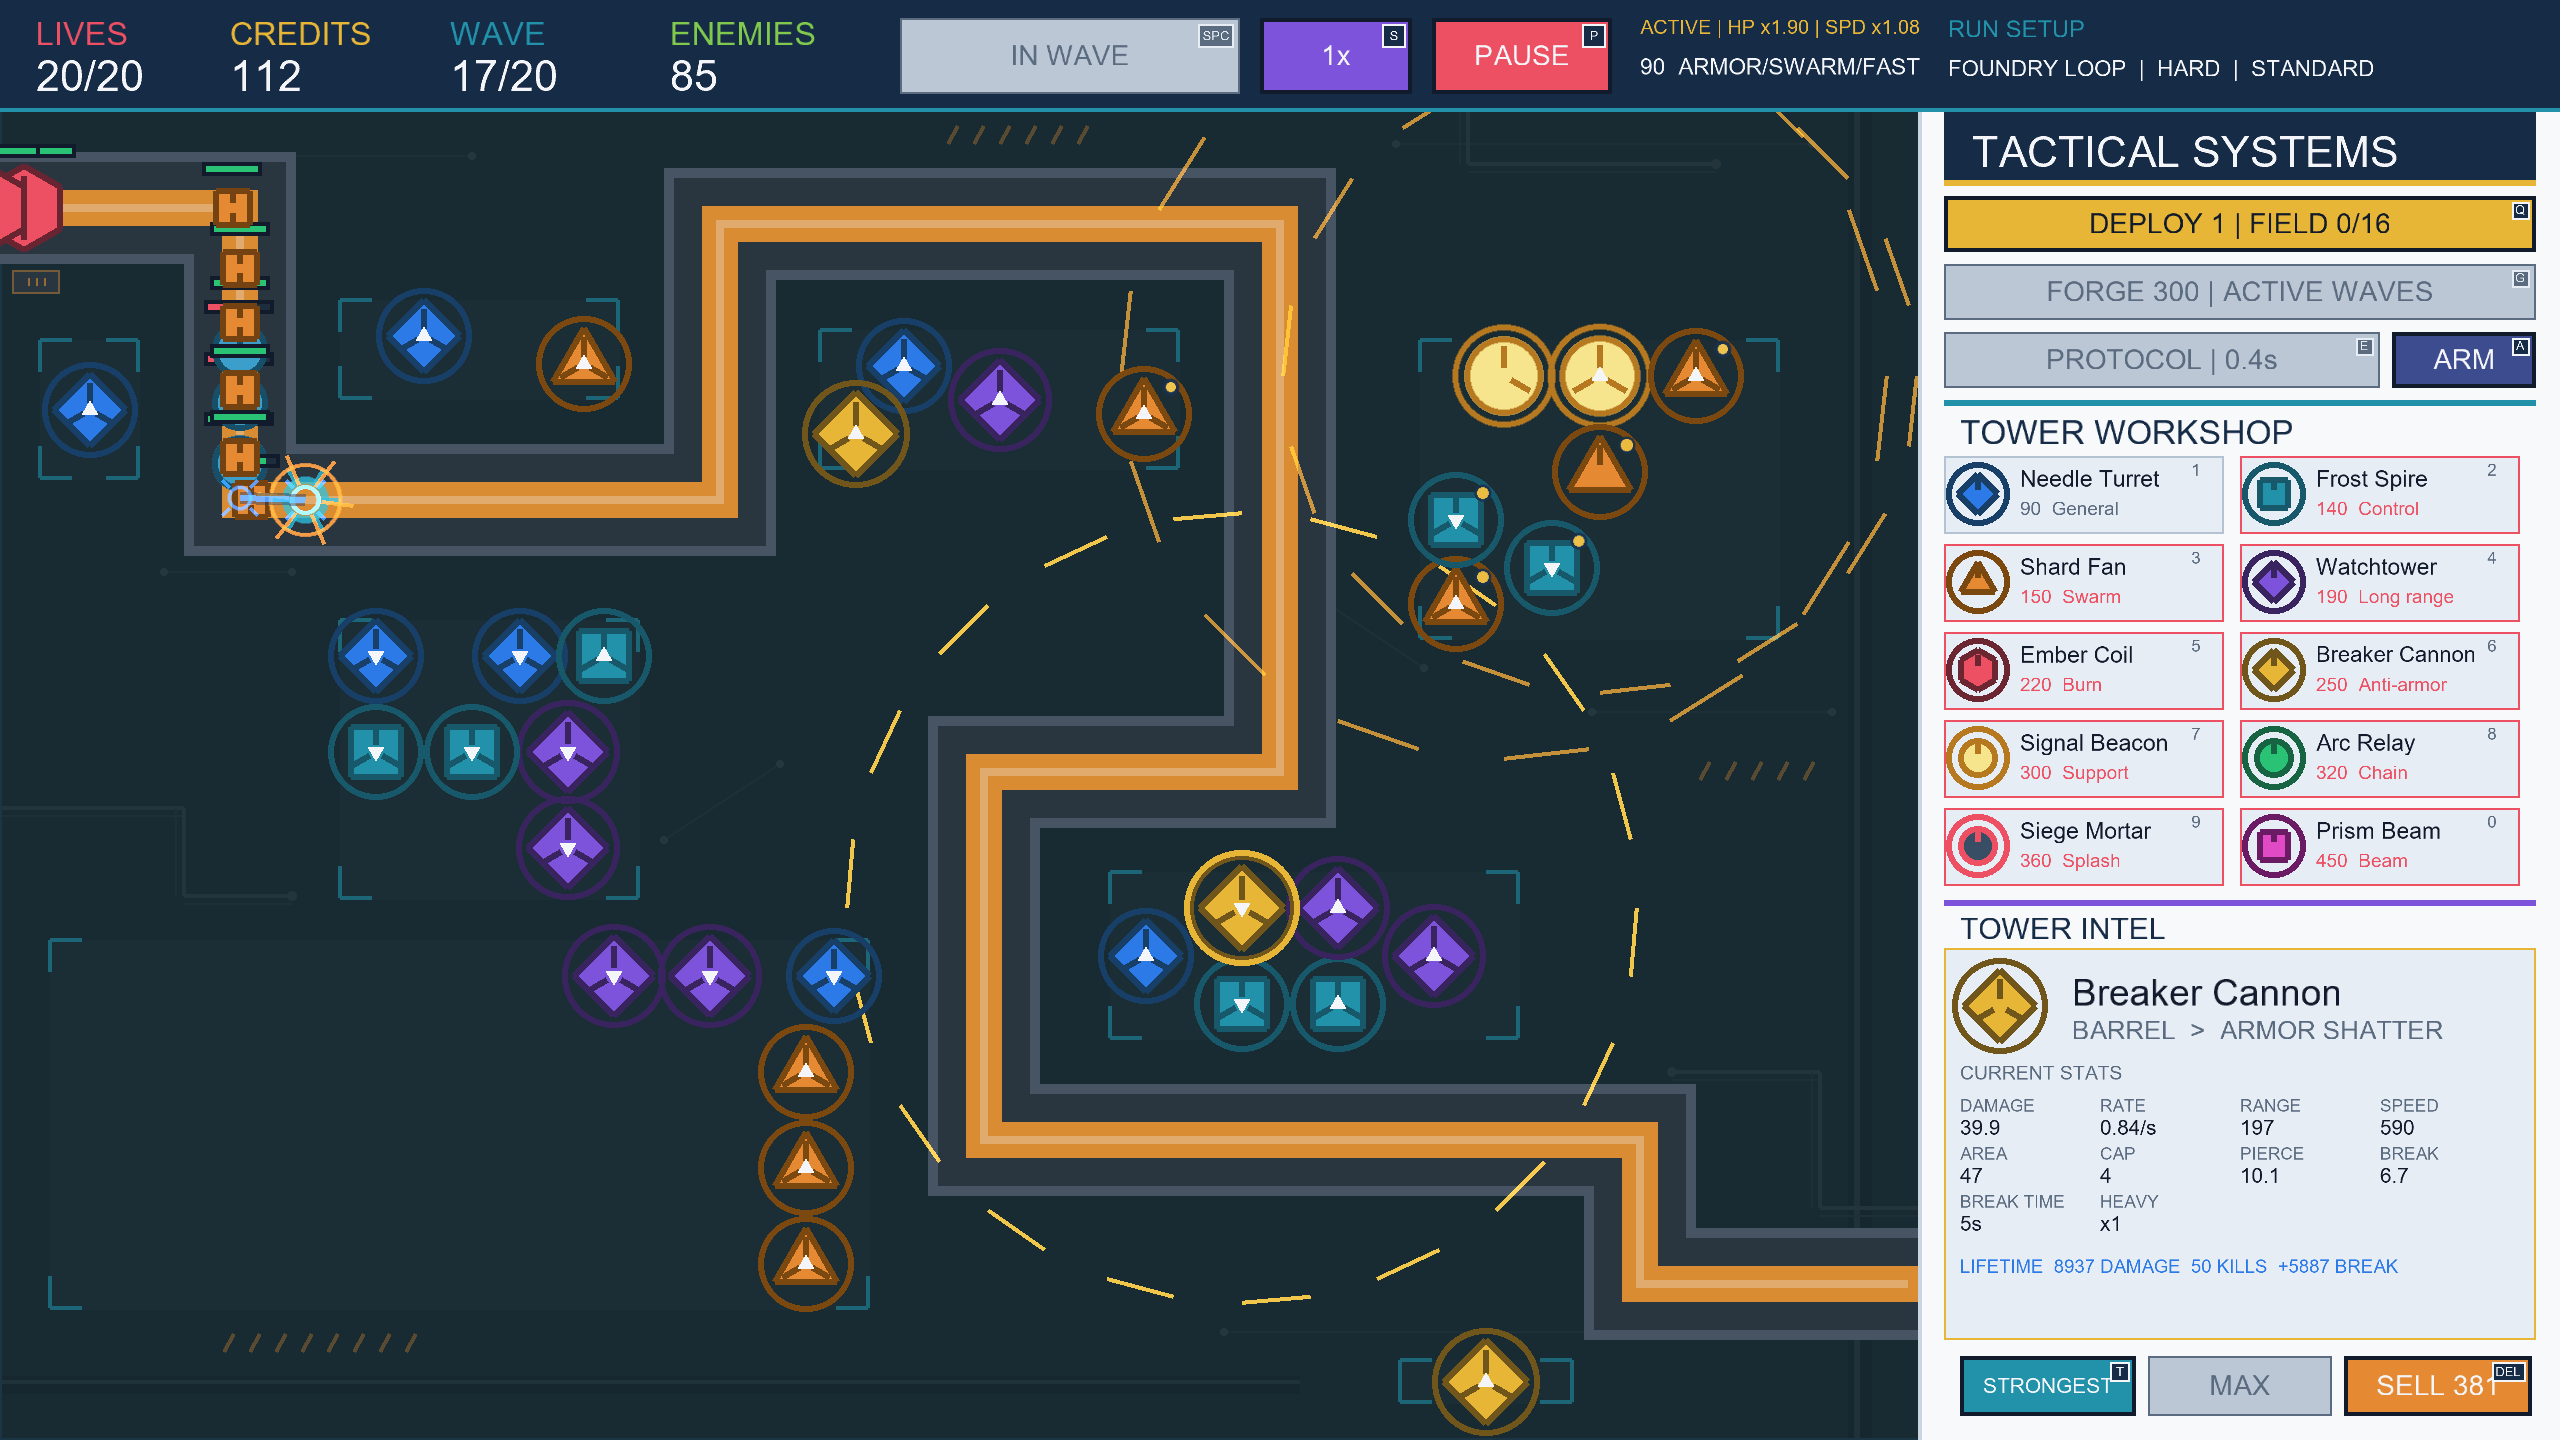
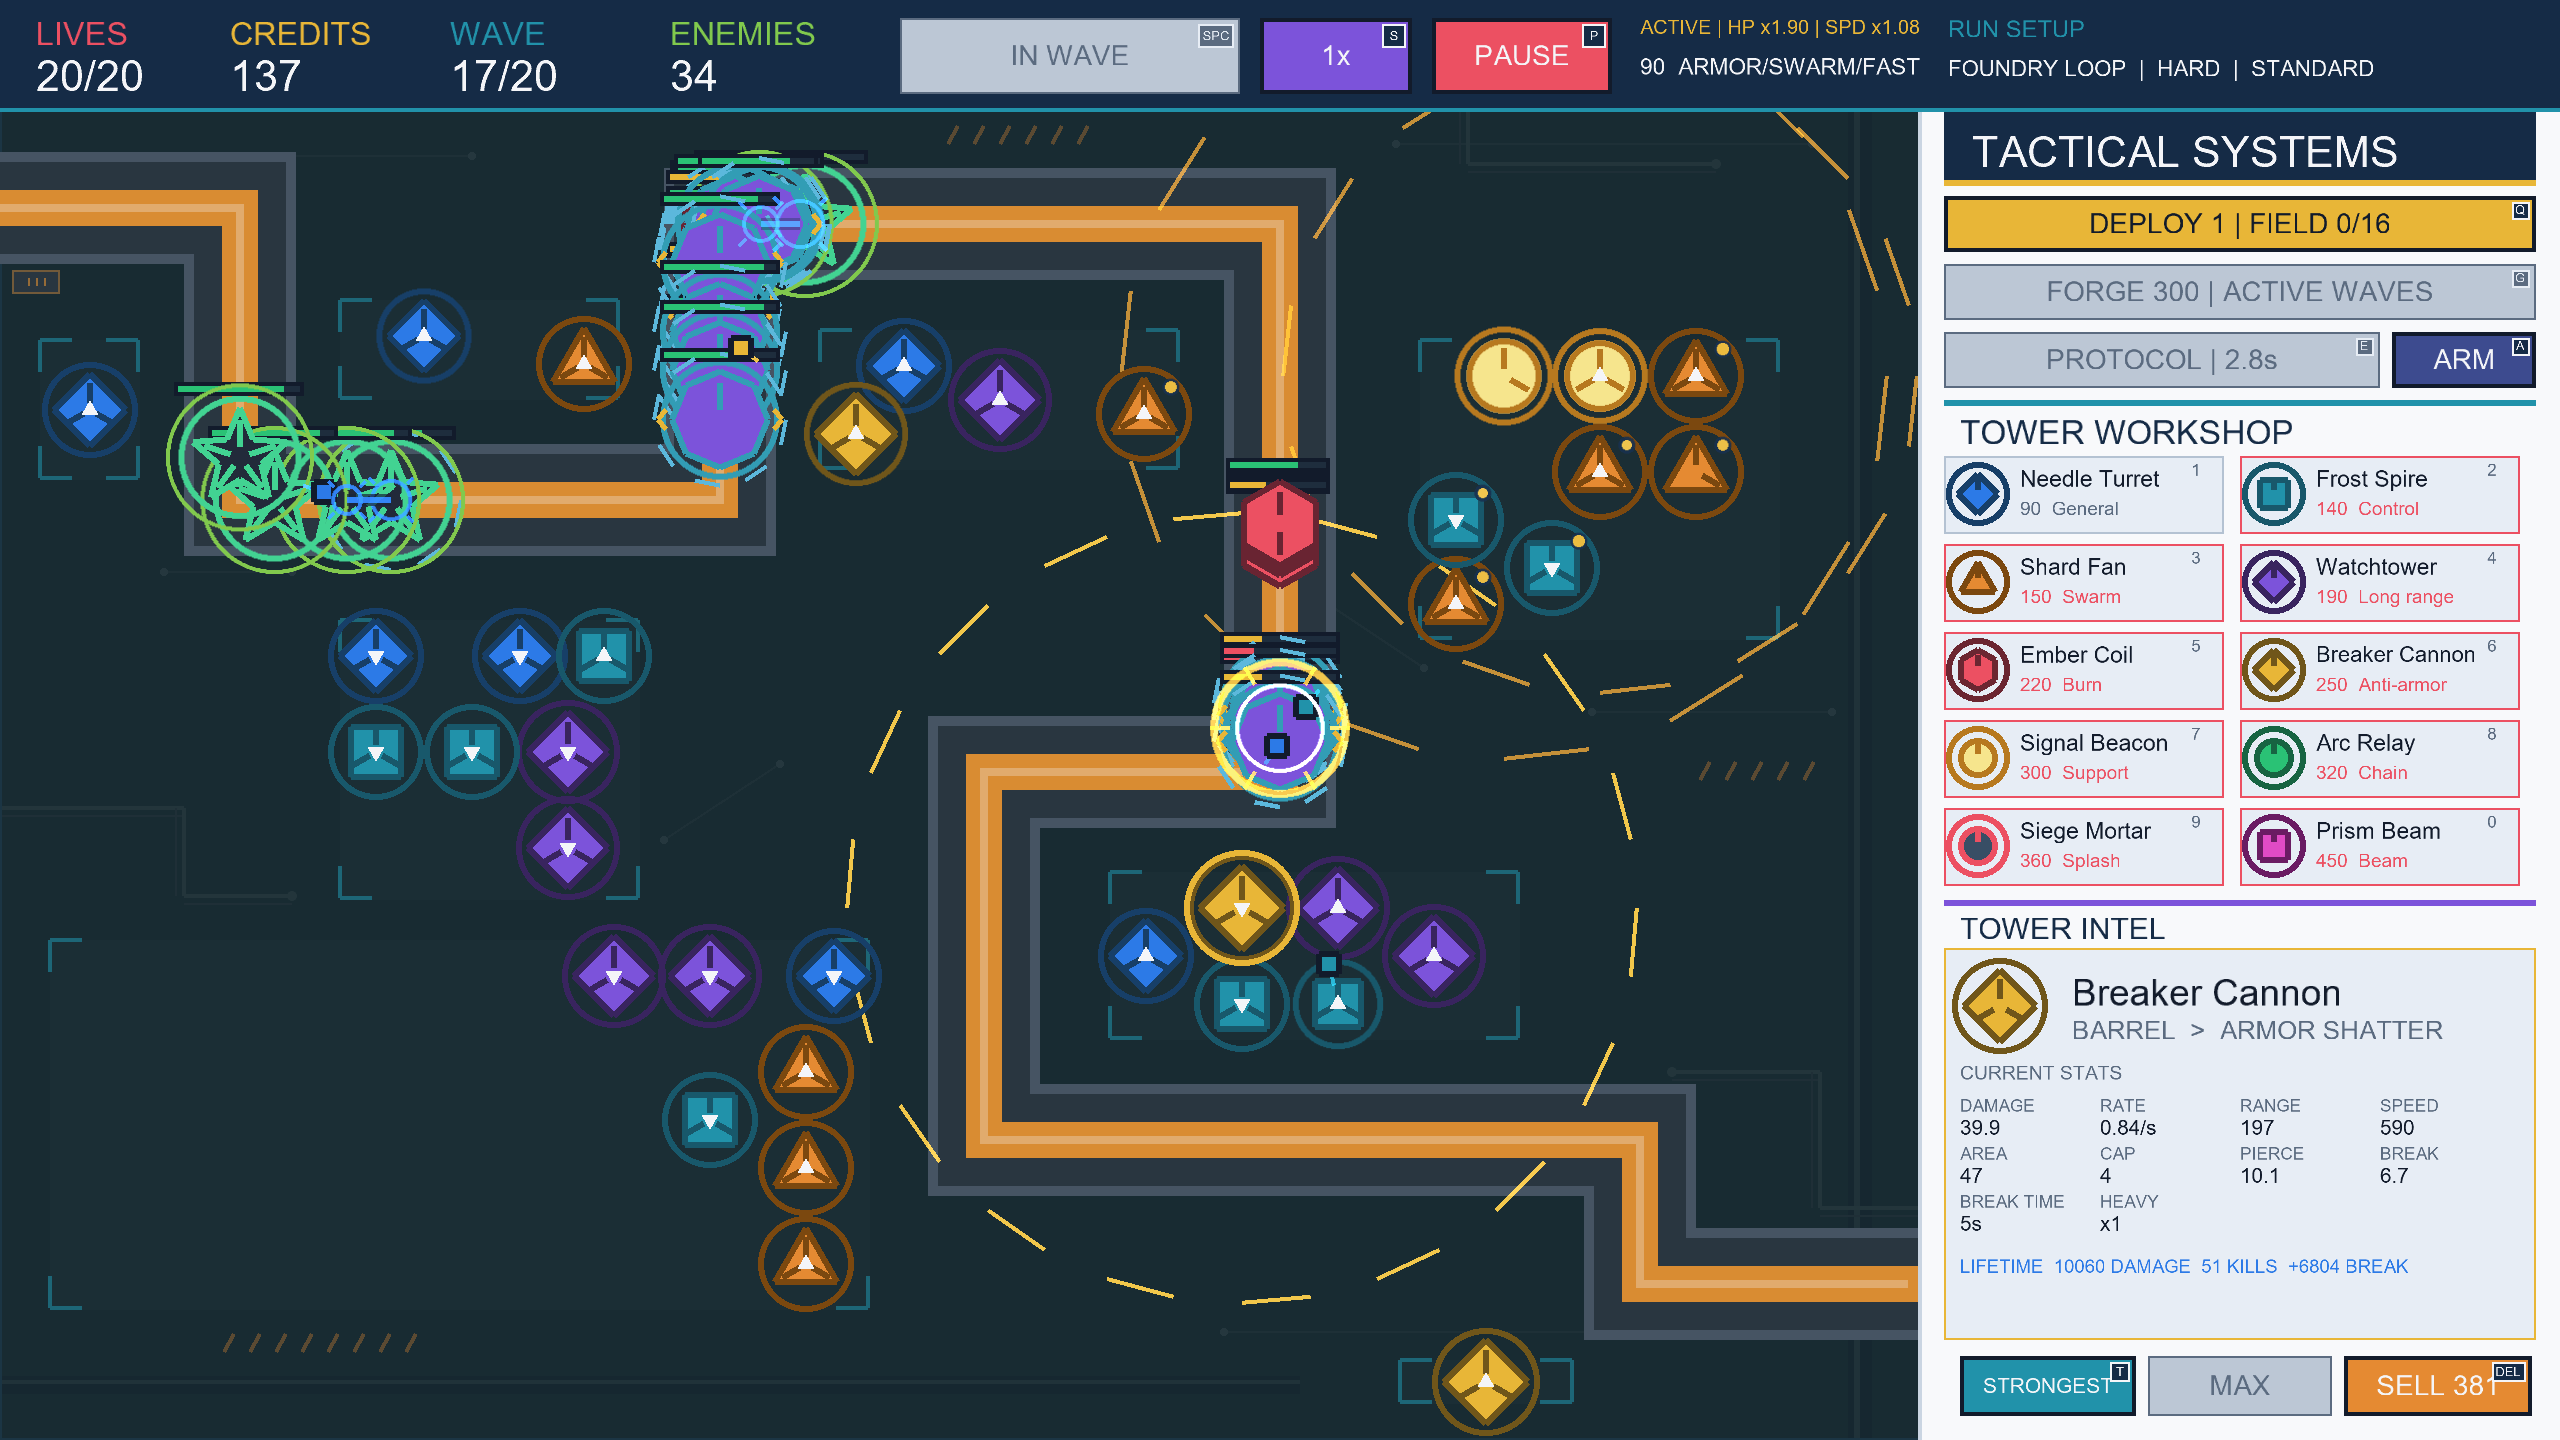
Capture denser mid-route marketing battles

diff --git a/src/MinimalBastion/Diagnostics/MarketingCaptureGame.cs b/src/MinimalBastion/Diagnostics/MarketingCaptureGame.cs
@@ -73,27 +73,28 @@ public sealed class MarketingCaptureGame : Game
         ConfigureUi(ui, content);
 
         var foundry = BuildActiveSession(content, "foundry_loop", "hard", "standard",
-            AutoPlayerStrategy.Adaptive, 1421, 17, minimumSeconds: 4.8f);
+            AutoPlayerStrategy.Adaptive, 1421, 17, minimumSeconds: 12f);
         SelectTower(foundry, "breaker_cannon");
         CaptureGameplay("01-foundry-loop-battle.png", ui, foundry);
 
         var crosswind = BuildActiveSession(content, "crosswind_basin", "hard", "standard",
-            AutoPlayerStrategy.Conservative, 2917, 15, minimumSeconds: 5.2f);
+            AutoPlayerStrategy.Conservative, 2917, 15, minimumSeconds: 12f);
         SelectTower(crosswind, "frost_spire");
         CaptureGameplay("02-crosswind-basin-battle.png", ui, crosswind);
 
         var prism = BuildActiveSession(content, "prism_circuit", "hard", "core_six",
-            AutoPlayerStrategy.AntiArmor, 4759, 18, minimumSeconds: 5.0f);
+            AutoPlayerStrategy.AntiArmor, 4759, 18, minimumSeconds: 12f);
         SelectTower(prism, "ember_coil");
         CaptureGameplay("03-prism-circuit-core-six.png", ui, prism);
 
         var surge = BuildActiveSession(content, "relay_divide", "hard", "standard",
-            AutoPlayerStrategy.Synergy, 9256, 18, minimumSeconds: 5.0f);
+            AutoPlayerStrategy.Synergy, 9256, 19, minimumSeconds: 12f,
+            minimumLeadingProgress: 0.45f, minimumMiddleEnemies: 8);
         SelectPoweredTower(surge);
         CaptureGameplay("04-surge-divide-nodes.png", ui, surge);
 
         var gauntlet = BuildActiveSession(content, "foundry_loop", "normal", "close_quarters",
-            AutoPlayerStrategy.Synergy, 6841, 14, minimumSeconds: 5.4f, requireSignalCarrier: true);
+            AutoPlayerStrategy.Synergy, 6841, 14, minimumSeconds: 12f, requireSignalCarrier: true);
         gauntlet.ConfigureCoOp(1);
         ui.SetCoOpConnectionState(true);
         ui.SetCoOpWaveReadyState(0, false);
@@ -136,7 +137,7 @@ public sealed class MarketingCaptureGame : Game
 
     private static GameSession BuildActiveSession(GameContent content, string mapId, string difficultyId,
         string challengeId, AutoPlayerStrategy strategy, int seed, int waveNumber, float minimumSeconds,
-        bool requireSignalCarrier = false)
+        bool requireSignalCarrier = false, float minimumLeadingProgress = 0.58f, int minimumMiddleEnemies = 10)
     {
         if (waveNumber < 2) throw new ArgumentOutOfRangeException(nameof(waveNumber));
         var options = new SimulationOptions
@@ -162,7 +163,8 @@ public sealed class MarketingCaptureGame : Game
         const float step = 0.05f;
         var elapsed = 0f;
         var reaction = 0f;
-        while (session.Waves.IsActive && elapsed < 11f)
+        var frameReady = false;
+        while (session.Waves.IsActive && elapsed < 55f)
         {
             session.Update(step);
             elapsed += step;
@@ -173,15 +175,29 @@ public sealed class MarketingCaptureGame : Game
                 reaction = 0f;
             }
 
-            var hasCombatArt = session.Projectiles.Projectiles.Count > 0 || session.Effects.Effects.Count >= 2;
+            var middleEnemies = session.Enemies.Count(enemy => enemy.PathProgress is >= 0.35f and <= 0.78f);
+            var centralEnemies = session.Enemies.Count(enemy =>
+                enemy.Position.X is >= 240f and <= 720f && enemy.Position.Y is >= 100f and <= 630f);
+            var leadingProgress = session.Enemies.Count == 0 ? 0 : session.Enemies.Max(enemy => enemy.PathProgress);
+            var attackingTowers = session.Towers.Count(tower => !tower.IsSupport && session.Enemies.Any(enemy =>
+                Vector2.DistanceSquared(tower.Position, enemy.Position) <=
+                session.GetEffectiveRange(tower) * session.GetEffectiveRange(tower)));
+            var hasCombatArt = session.Projectiles.Projectiles.Count >= 2 || session.Effects.Effects.Count >= 4;
             var hasSignalCarrier = !requireSignalCarrier || session.Enemies.Any(enemy => enemy.SignalRole != EnemySignalRole.None);
-            if (elapsed >= minimumSeconds && session.Enemies.Count >= 5 && hasCombatArt && hasSignalCarrier &&
-                session.AnnouncementRemaining <= 0)
+            if (elapsed >= minimumSeconds && middleEnemies >= minimumMiddleEnemies && centralEnemies >= 6 &&
+                leadingProgress >= minimumLeadingProgress &&
+                attackingTowers >= 8 && hasCombatArt && hasSignalCarrier && session.AnnouncementRemaining <= 0)
+            {
+                Console.WriteLine($"{mapId} W{waveNumber}: {session.Enemies.Count} enemies, " +
+                                  $"{middleEnemies} mid-route, {centralEnemies} central, " +
+                                  $"{attackingTowers} towers in range at {elapsed:0.0}s.");
+                frameReady = true;
                 break;
+            }
         }
 
-        if (!session.Waves.IsActive || session.Enemies.Count == 0)
-            throw new InvalidOperationException($"{mapId} wave {waveNumber} ended before a gameplay frame was available.");
+        if (!frameReady)
+            throw new InvalidOperationException($"{mapId} wave {waveNumber} ended before a mid-route combat frame was available.");
         return session;
     }
 
